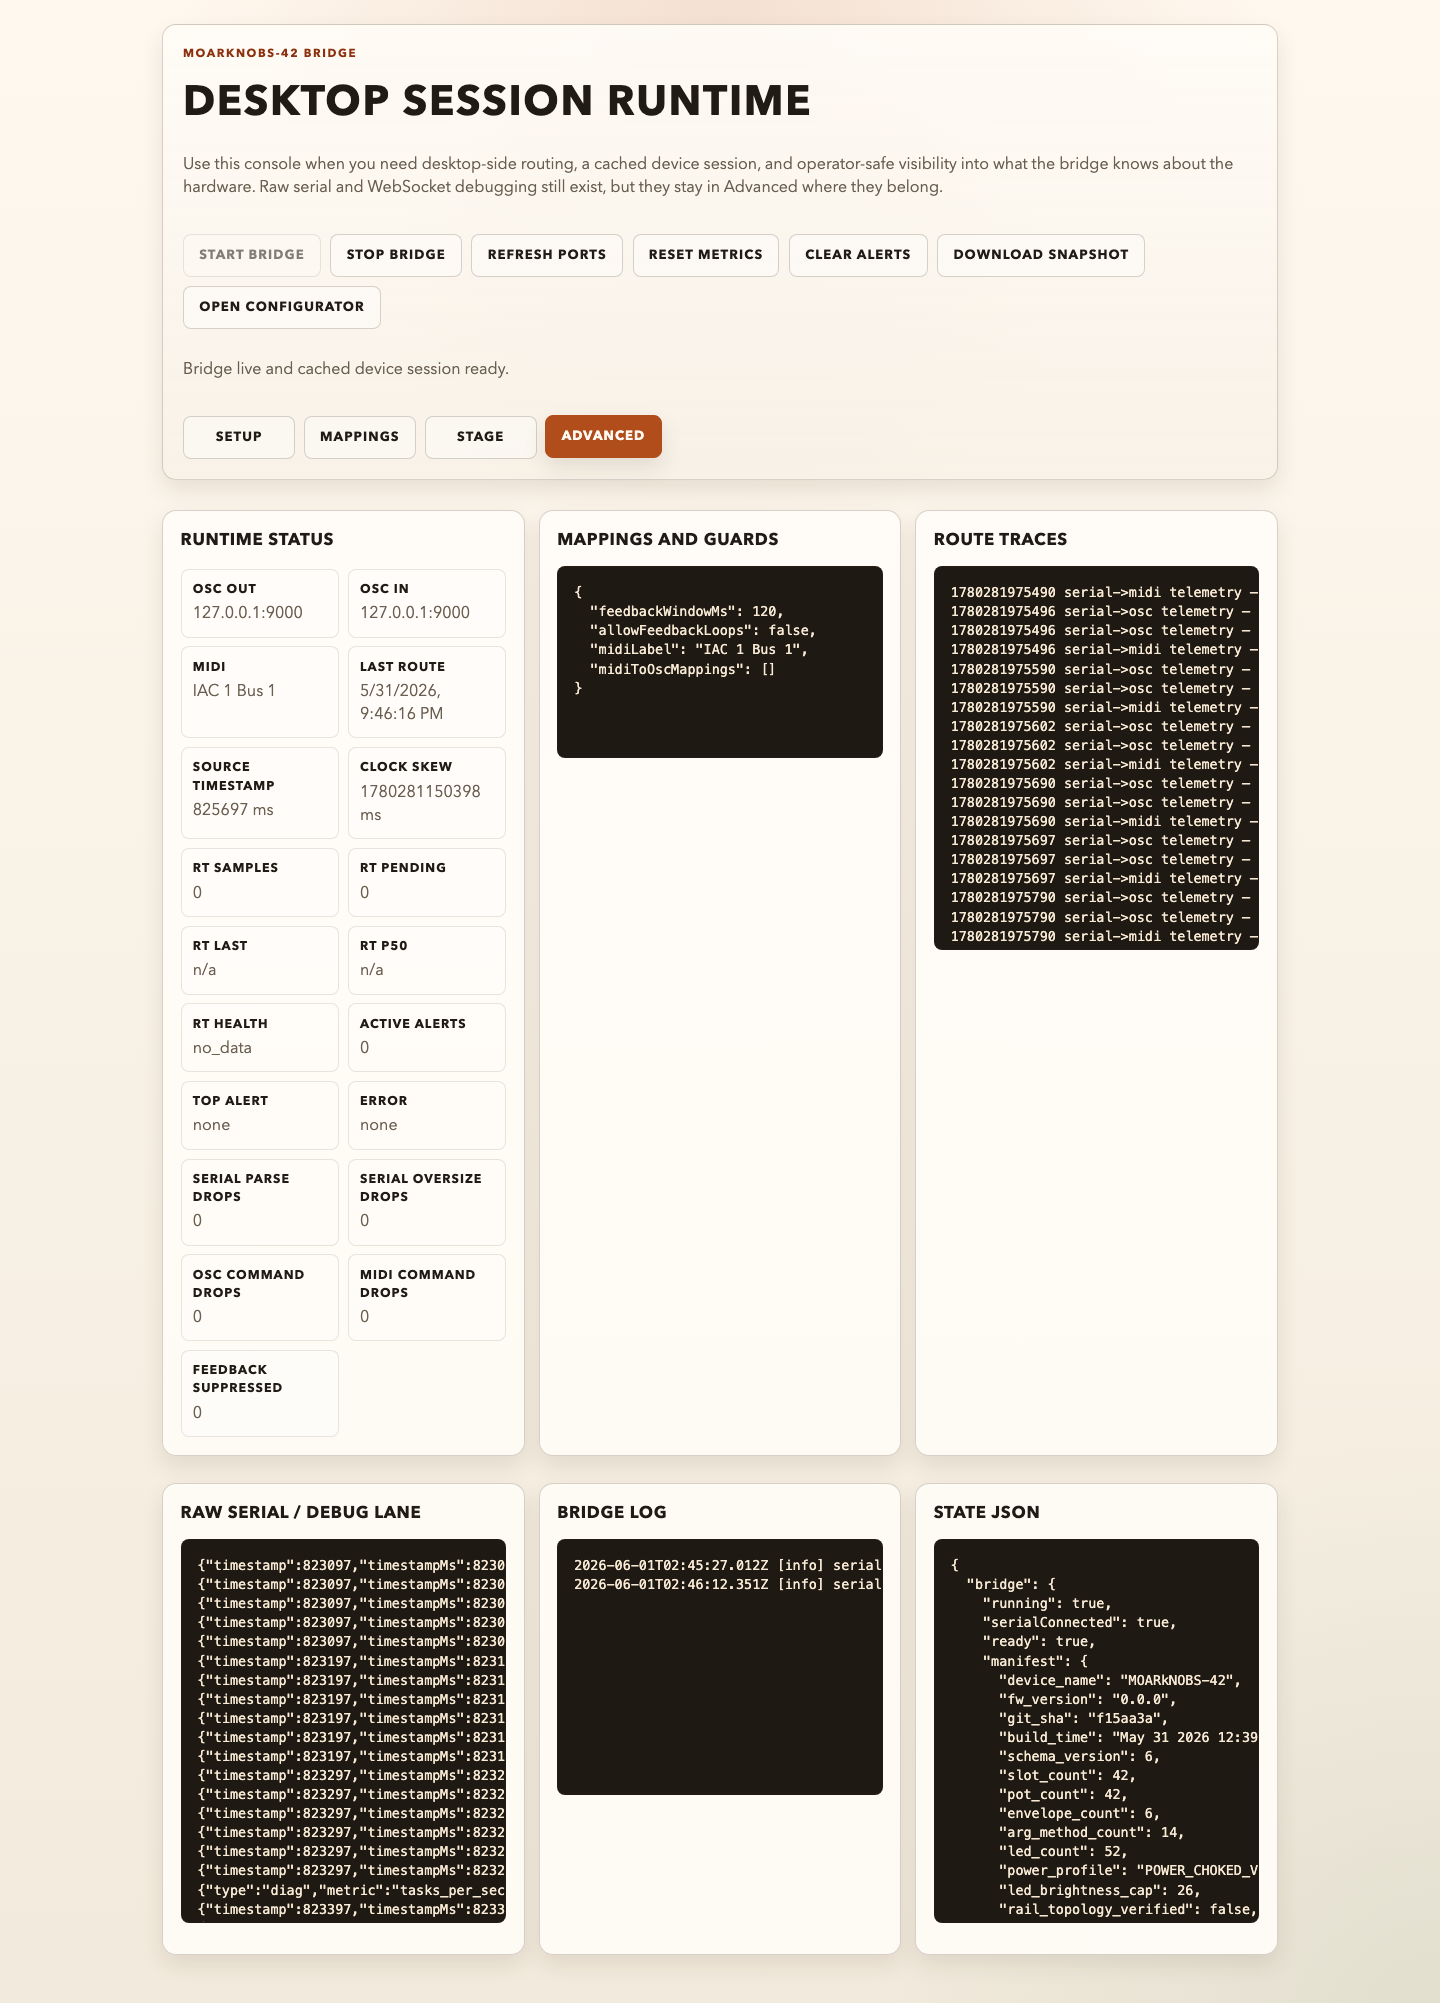
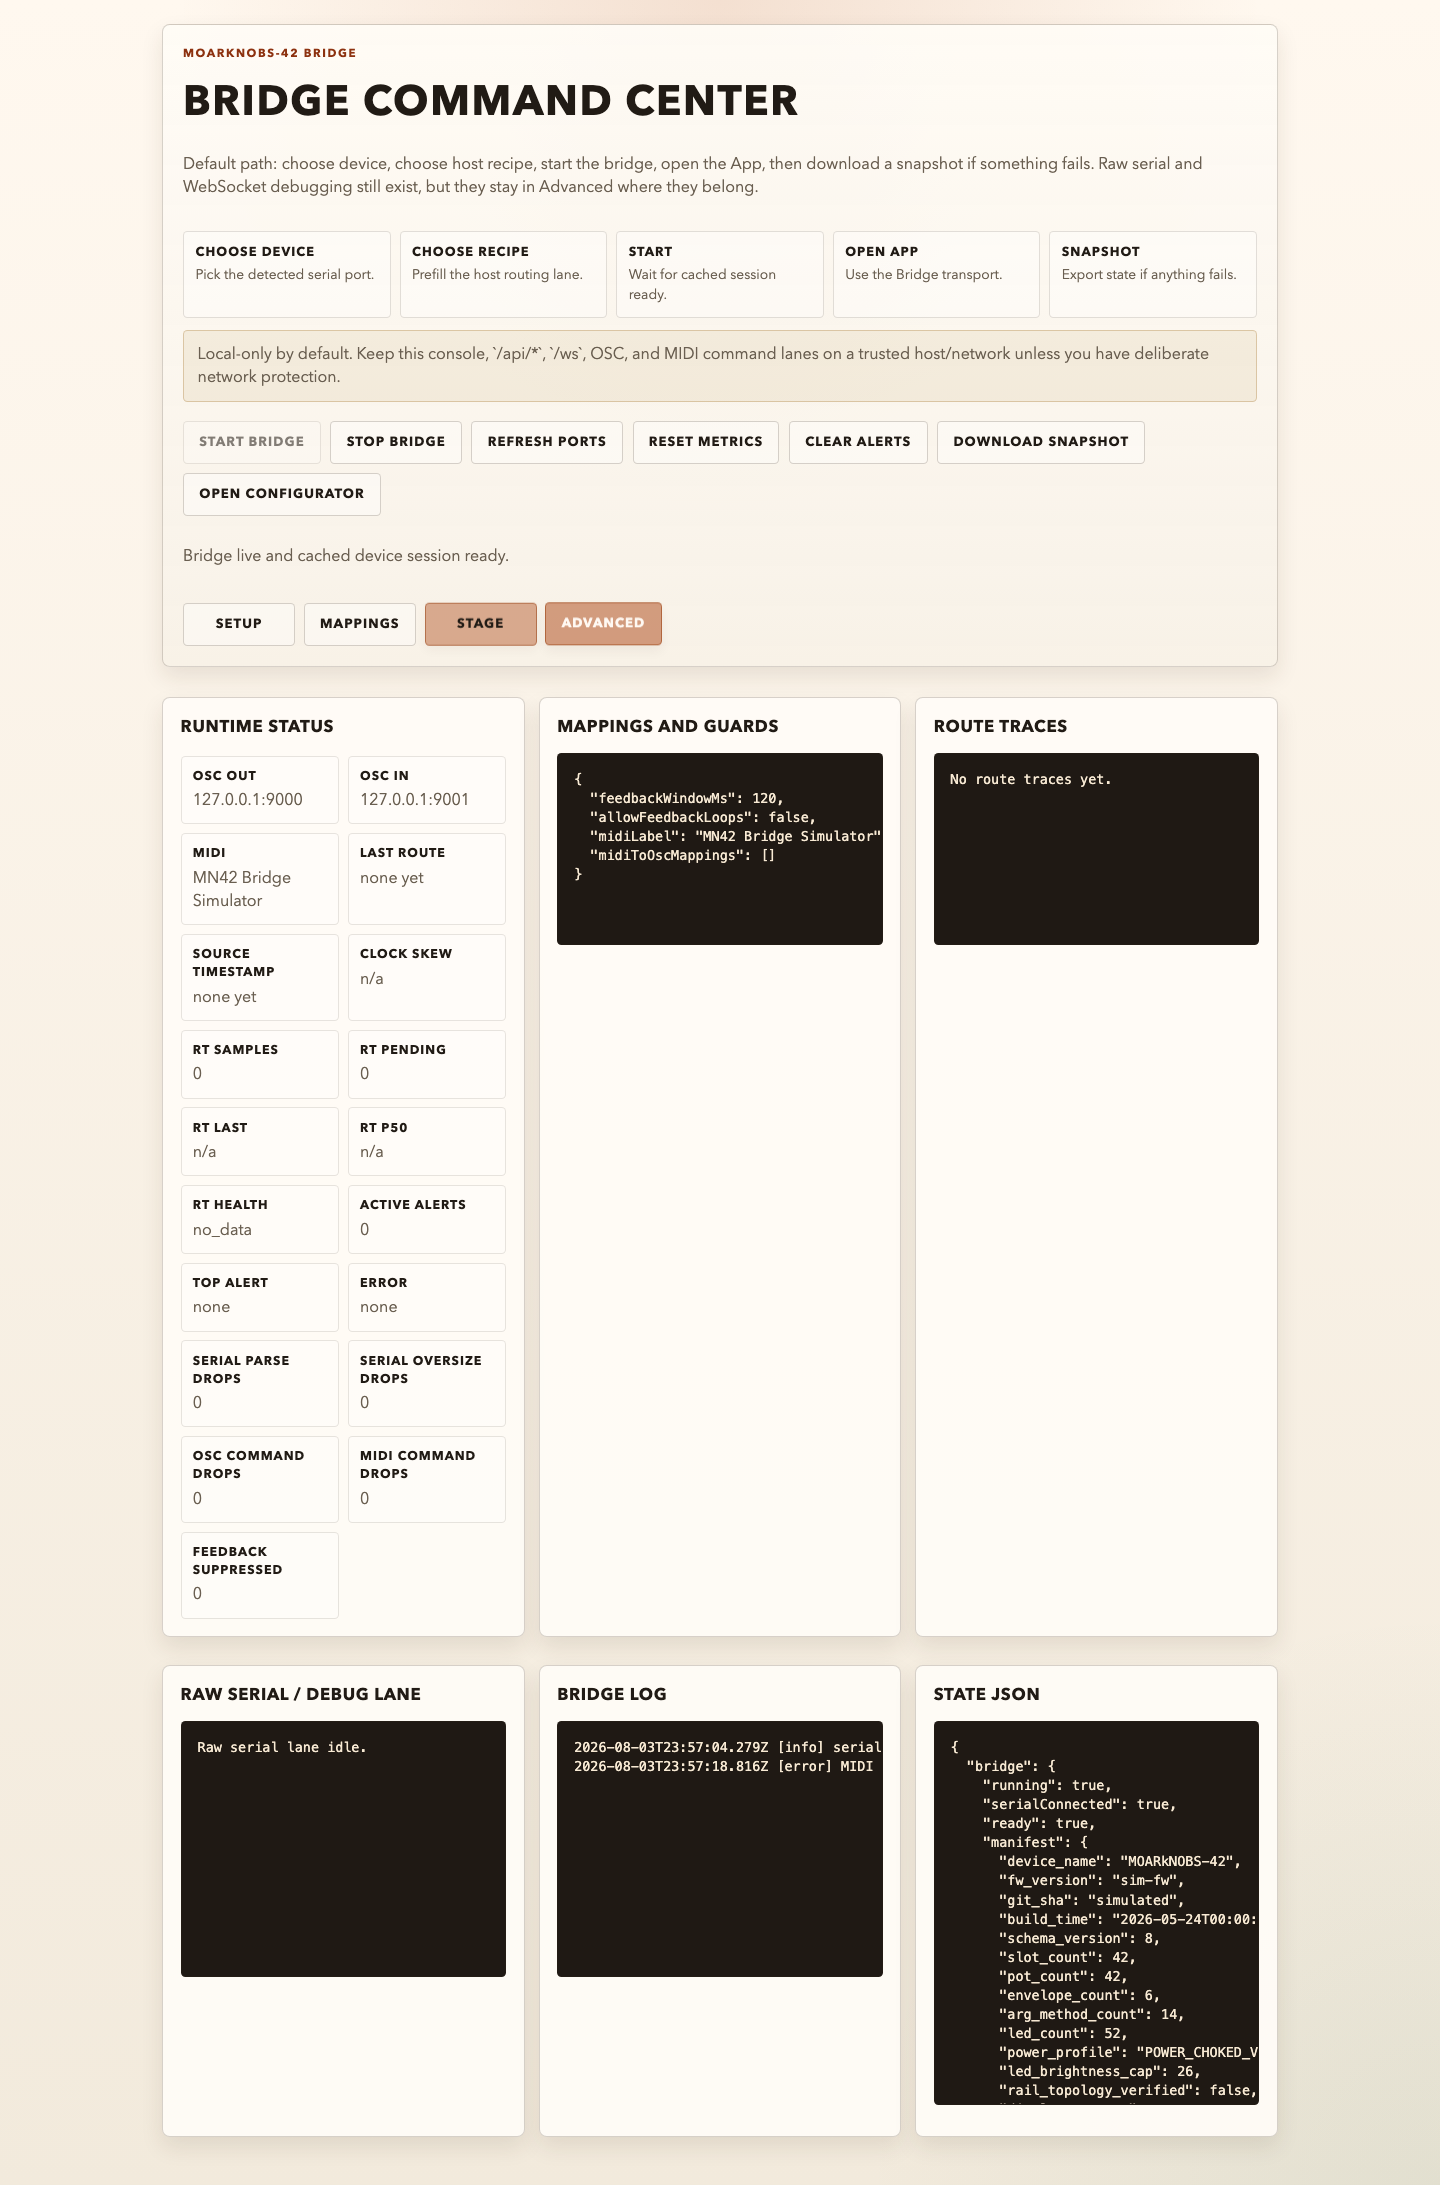
surface shots

Changed region(s): [[0.0938, 0.0, 0.9062, 0.9905]]

diff --git a/docs/bridge/BridgeConsoleTour.md b/docs/bridge/BridgeConsoleTour.md
@@ -11,12 +11,12 @@ For transport and support-boundary tie-breaks, see [Bridge README](https://githu
 - Open `http://127.0.0.1:8787/`.
 - Use Node `24.x` only; the Bridge package still pins `>=24 <25`.
 
-Screenshot note: the images below were captured from the real local Bridge console on this host with the attached board connected and the Bridge session ready. They show the actual operator labels and a real cached session, not mock data.
+Screenshot note: the images below were recaptured on 2026-08-03 from the local Bridge console against the repository's MN42 device simulator. They show the current operator labels and a complete cached Bridge session, but are UI documentation—not hardware validation evidence.
 
-Live session example from this capture:
+Simulator session example from this capture:
 
-- serial path: `/dev/cu.usbmodem192460701`
-- firmware identity: `MOARkNOBS-42` / schema `6` / git `f15aa3a`
+- serial path: `/dev/simulated-mn42`
+- firmware identity: `MOARkNOBS-42` / schema `8` / git `simulated`
 - power boundary: `POWER_CHOKED_V1`
 - LED cap: `26`
 - rail state: `unverified`
@@ -27,7 +27,7 @@ Live session example from this capture:
 
 Setup mode is where a non-developer operator should start.
 
-This capture shows a complete setup path: detected serial hardware, a real host MIDI loopback label, and the top-line `Bridge live and cached device session ready.` status after the operator has already started the Bridge successfully.
+This capture shows a complete setup path, including the simulator serial path, a simulator MIDI label, and the top-line `Bridge live and cached device session ready.` status after the operator has started the Bridge.
 
 - `Serial port` is the firmware USB path. Pick a detected entry from the list or type it manually if the detector missed it.
 - `MIDI port label` should match the host loopback port you intend to use.
@@ -50,7 +50,7 @@ The serial chooser is intentionally simple:
 
 Stage mode is the compact operator view. It is meant to answer “is the Bridge healthy?” without exposing raw debugging detail.
 
-In the screenshot above, the board is already connected, `Device` is `ready`, and the cached session is showing the firmware-reported `POWER_CHOKED_V1` boundary with `LED cap 26` and `rail state unverified`.
+In the screenshot above, the simulated device is connected, `Device` is `ready`, and the cached session shows the simulator's `POWER_CHOKED_V1` boundary with `LED cap 26` and `rail state unverified`.
 
 - `Bridge`, `Serial`, and `Device` show whether the desktop runtime is running, whether the serial link is up, and whether the device session is actually ready.
 - `Telemetry`, `RT p95`, and `Jitter p95` summarize whether the runtime is seeing fresh traffic and whether round-trip timing is staying inside configured targets.
@@ -71,7 +71,7 @@ The console reports the session as ready only after the Bridge has cached all of
 
 Until then, Stage mode may show `awaiting HELLO`, `awaiting handshake`, or empty cached-session fields. That is expected during startup or after a reconnect.
 
-In the live screenshots for this tour, `ready` means the Bridge has already cached the board identity, schema authority, live config snapshot, and the conservative power boundary fields that the release docs currently treat as the safe default for unverified Rev A hardware.
+In the screenshots for this tour, `ready` means the Bridge has already cached device identity, schema authority, a live config snapshot, and conservative power-boundary fields. Confirm those values on attached hardware before relying on them for a release or performance decision.
 
 ### App Launch
 
@@ -89,10 +89,10 @@ That means:
 
 Advanced mode is the diagnostic view. It is still operator-usable, but it assumes you need evidence rather than a quiet status board.
 
-This live capture shows three useful student-facing examples at once:
+This simulator capture shows three useful student-facing examples at once:
 
-- route traces are being logged
-- the raw serial/debug lane is receiving real firmware output
+- the runtime and cached session are present
+- the raw serial/debug lane and route trace surfaces are available for diagnosis
 - the state JSON includes the same cached power and firmware identity fields shown in Stage mode
 
 - `Runtime status` expands the performance and error counters: OSC/MIDI endpoints, last route, source timestamp/skew, round-trip samples, parse drops, command drops, and feedback suppression counts.

diff --git a/docs/bench/app/2026-08-03-app-bridge-session-simulator-surface.md b/docs/bench/app/2026-08-03-app-bridge-session-simulator-surface.md
@@ -1,0 +1,17 @@
+# App Surface Capture: Bridge Session Simulator
+
+Date: 2026-08-03
+
+This is a current UI capture of the modified App surface served by Bridge and connected to the repository's MN42 device simulator. It is not a board-backed validation receipt and does not replace the historical live-session evidence.
+
+![Modified App Configure surface connected through a simulated structured Bridge session](../../images/app-bridge-session-simulator.png)
+
+Capture details:
+
+- App origin: Bridge-served `/app/`
+- Transport shown by App: `Bridge session`
+- Device identity: `MOARkNOBS-42` / `sim-fw` / schema `8`
+- Simulator serial path: `/dev/simulated-mn42`
+- Power boundary displayed: `POWER_CHOKED_V1`, LED cap `26`, rail `unverified`
+
+The capture verifies the document-facing surface can render a structured Bridge session with the current App layout. Re-run a board-backed HIL session before making firmware, transport, or hardware claims.

diff --git a/docs/bench/app/README.md b/docs/bench/app/README.md
@@ -13,6 +13,7 @@ This is an evidence folder. For tie-break rules, see [Documentation Truth Map](.
 ## Current references
 
 - [2026-05-31 live App-over-Bridge-session receipt](2026-05-31-app-over-bridge-session-summary.md)
+- [2026-08-03 App Bridge-session simulator surface capture](2026-08-03-app-bridge-session-simulator-surface.md)
 - [App-over-Bridge-session template](TEMPLATE_app-over-bridge-session-summary.md)
 - [Direct WebSerial template](TEMPLATE_direct-webserial-summary.md)
 - [Historical bridge-session supporting receipt](../firmware/0526_bridge-session-summary.md)
